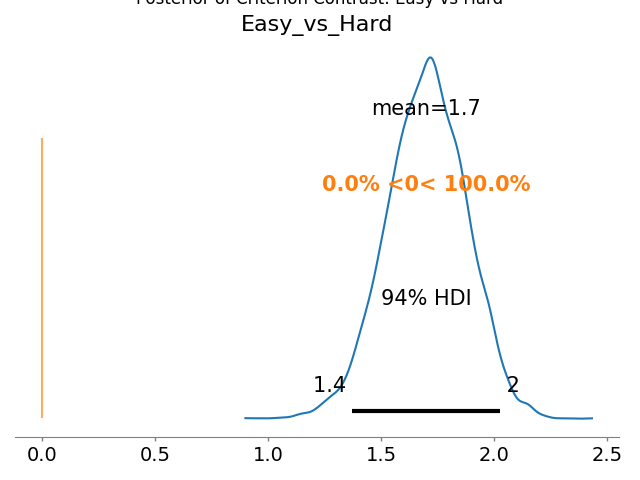
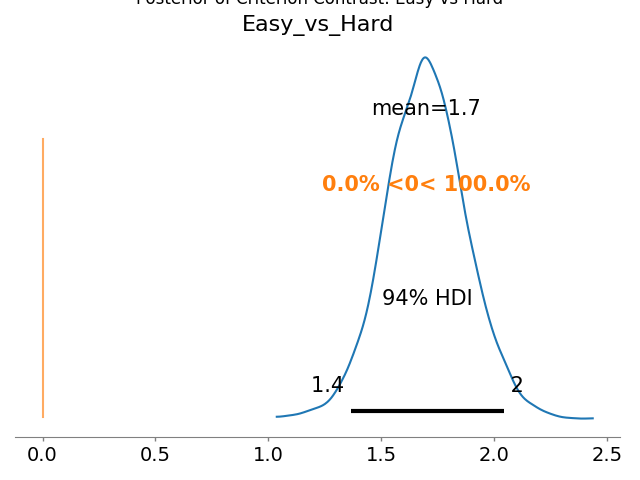
cleaning 3

diff --git a/code/sdt_ddm.py b/code/sdt_ddm.py
@@ -331,8 +331,6 @@ def show_summary_sdt(data):
 
 def analyze_results(idata, data):
     print('Hierarchical SDT Model Summary')
-    P = len(data['pnum'].unique())
-    C = len(data['condition'].unique())
 
     #convergence checking
     print("\nConvergence Check")
@@ -362,12 +360,6 @@ def analyze_results(idata, data):
 
     full_df = pd.merge(d_df, c_df, on='pnum')
 
-    overall_d = d.mean()
-    overall_c = c.mean()
-
-    overall_hit_rate = 1 / (1 + np.exp(-(overall_d - overall_c)))
-    overall_fa_rate = 1 / (1 + np.exp(overall_c))
-
     overall_row = {f"d_{i}": d[:, i].mean() for i in range(n_conditions)}
     overall_row.update({f"c_{i}": c[:, i].mean() for i in range(n_conditions)})
     overall_row['pnum'] = 'overall'
@@ -375,7 +367,8 @@ def analyze_results(idata, data):
     full_df = pd.concat([full_df, pd.DataFrame([overall_row])])
     full_df.to_csv(OUTPUT_DIR / "overall_posterior_parameters.csv", index=False)
 
-    az.plot_forest(idata, var_names=['d_prime', 'criterion'], combined=True)
+    #forest plot for condition effects like in full.py
+    az.plot_posterior(idata, var_names=['d_prime'])
     plt.tight_layout()
     plt.savefig(OUTPUT_DIR / "overall_forest_plot.png")
     plt.close()
@@ -389,7 +382,6 @@ def analyze_results(idata, data):
     hr_df['pnum'] = range(1, hit_rates.shape[0] + 1)
     fa_df['pnum'] = range(1, fa_rates.shape[0] + 1)
 
-    rates_df = pd.merge(hr_df, fa_df, on='pnum') 
     hr_long = hr_df.melt(id_vars='pnum', var_name='condition', value_name='hit_rate') #gpt for format
     fa_long = fa_df.melt(id_vars='pnum', var_name='condition', value_name='fa_rate')
     hr_long['condition'] = hr_long['condition'].str.extract(r'(\d+)').astype(int)
@@ -410,6 +402,7 @@ def analyze_results(idata, data):
         'max_fa_rate': rate_df.groupby("condition")['fa_rate'].idxmax(),
         'min_fa_rate': rate_df.groupby("condition")['fa_rate'].idxmin(),
     }
+
     for key, idx in idxs.items():
         rate_summary[f"{key}_participant"] = rate_df.loc[idx, 'pnum'].values
 
@@ -441,7 +434,7 @@ def analyze_results(idata, data):
     }
     d_idata = az.from_dict(posterior={name: val for name, val in d_contrasts.items()}) #gpt suggested
 
-    for name in d_contrasts:
+    for name in d_contrasts: #like in full.py
         print(f"\nSummary of d' difference: {name.replace('_', ' ')}")
         print(az.summary(d_idata, var_names=[name], hdi_prob=0.94))
 
